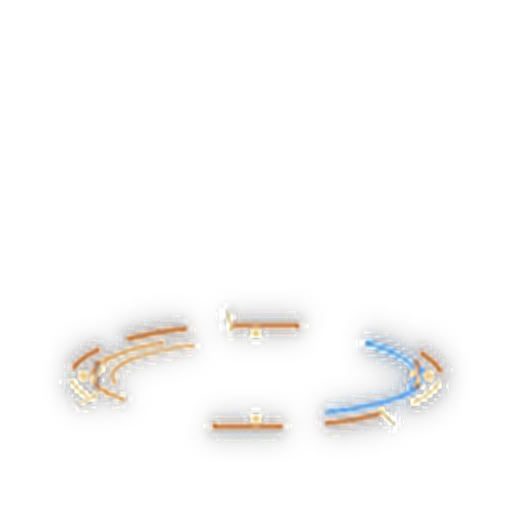
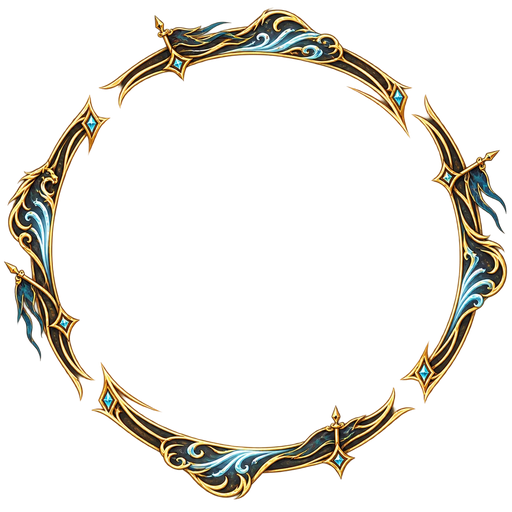
feat: new commander aura art for all eight commanders
Crisp top-down ornamental rings replace the blurred squashed ellipses,
each themed to its hero. Ghost smudges and stray specks are removed so
they cannot skew the alpha bounds the ring is fitted by.

The aura PNGs have been 512x512 since 684ee94, but the frame maths still
assumed a 128 canvas and the generated bounds were left in that space.
Name the canvas size, regenerate the bounds in pixels and update the
manifest and integration-state hashes.

Changed region(s): [[0.0, 0.0, 1.0, 1.0], [0.4375, 0.5938, 0.5938, 0.6875]]

diff --git a/packages/web/src/features/vfx/deploymentComposition.test.tsx b/packages/web/src/features/vfx/deploymentComposition.test.tsx
@@ -3,7 +3,7 @@ import test from "node:test";
 import { act, create, type ReactTestRenderer } from "react-test-renderer";
 import { renderToStaticMarkup } from "react-dom/server";
 import { UnitDeploymentContent } from "./UnitDeploymentContent";
-import { CommanderAura, commanderAuraCells, commanderAuraFrame } from "./CommanderAura";
+import { COMMANDER_AURA_CANVAS, CommanderAura, commanderAuraCells, commanderAuraFrame } from "./CommanderAura";
 import { commanderAuraBounds } from "./expansionPresence.generated";
 import { imagePreloader } from "./imagePreload";
 import type { QueuedBoardVfxRequest } from "./vfxTypes";
@@ -25,10 +25,10 @@ test("commander field includes diagonals, clips at board edges and mirrors exact
       assert.match(html, /commander-aura-orbit/);
       assert.match(html, /preserveAspectRatio="none"/);
       const hero = effectId.split(".")[1], bounds = commanderAuraBounds[hero], frame = commanderAuraFrame(hero);
-      assert(Math.abs(frame.x + bounds.left / 128 * frame.width - 3) < .001, `${hero}: left contour`);
-      assert(Math.abs(frame.y + bounds.top / 128 * frame.height - 3) < .001, `${hero}: top contour`);
-      assert(Math.abs(frame.x + (bounds.left + bounds.width) / 128 * frame.width - 297) < .001, `${hero}: right contour`);
-      assert(Math.abs(frame.y + (bounds.top + bounds.height) / 128 * frame.height - 297) < .001, `${hero}: bottom contour`);
+      assert(Math.abs(frame.x + bounds.left / COMMANDER_AURA_CANVAS * frame.width - 3) < .001, `${hero}: left contour`);
+      assert(Math.abs(frame.y + bounds.top / COMMANDER_AURA_CANVAS * frame.height - 3) < .001, `${hero}: top contour`);
+      assert(Math.abs(frame.x + (bounds.left + bounds.width) / COMMANDER_AURA_CANVAS * frame.width - 297) < .001, `${hero}: right contour`);
+      assert(Math.abs(frame.y + (bounds.top + bounds.height) / COMMANDER_AURA_CANVAS * frame.height - 297) < .001, `${hero}: bottom contour`);
     }
   }
 });

diff --git a/packages/web/src/features/vfx/expansionPresence.generated.ts b/packages/web/src/features/vfx/expansionPresence.generated.ts
@@ -178,52 +178,52 @@ export const selectionRingBounds: Readonly<Record<string, { left: number; top: n
 };
 export const commanderAuraBounds: Readonly<Record<string, { left: number; top: number; width: number; height: number }>> = {
   "donKihote": {
-    "left": 16,
-    "top": 74,
-    "width": 95,
-    "height": 34
+    "left": 8,
+    "top": 3,
+    "width": 499,
+    "height": 504
   },
   "elCidCompeador": {
-    "left": 15,
-    "top": 78,
-    "width": 98,
-    "height": 32
+    "left": 4,
+    "top": 6,
+    "width": 504,
+    "height": 496
   },
   "genghisKhan": {
-    "left": 15,
-    "top": 77,
-    "width": 98,
-    "height": 33
+    "left": 4,
+    "top": 7,
+    "width": 504,
+    "height": 493
   },
   "griffith": {
-    "left": 14,
-    "top": 52,
-    "width": 101,
-    "height": 62
+    "left": 7,
+    "top": 12,
+    "width": 498,
+    "height": 488
   },
   "grozny": {
-    "left": 16,
-    "top": 78,
-    "width": 97,
-    "height": 30
+    "left": 6,
+    "top": 10,
+    "width": 500,
+    "height": 486
   },
   "hassan": {
-    "left": 20,
-    "top": 59,
-    "width": 88,
-    "height": 45
+    "left": 7,
+    "top": 11,
+    "width": 499,
+    "height": 480
   },
   "jebe": {
-    "left": 21,
-    "top": 55,
-    "width": 87,
-    "height": 44
+    "left": 3,
+    "top": 5,
+    "width": 506,
+    "height": 499
   },
   "vladTepes": {
-    "left": 17,
-    "top": 74,
-    "width": 97,
-    "height": 36
+    "left": 2,
+    "top": 2,
+    "width": 509,
+    "height": 508
   }
 };
 export const deploymentRevealFractions: Readonly<Record<string, number>> = {

diff --git a/packages/web/src/features/vfx/CommanderAura.tsx b/packages/web/src/features/vfx/CommanderAura.tsx
@@ -23,12 +23,15 @@ export function commanderAuraCells(position: Coord, boardSize: number): Coord[] 
   return cells;
 }
 
-/** Normalize the authored ground ellipse and transparent padding to the board plane. */
+/** Pixel size of commander_aura.png; commanderAuraBounds are measured in it. */
+export const COMMANDER_AURA_CANVAS = 512;
+
+/** Normalize the authored ring and its transparent padding to the board plane. */
 export function commanderAuraFrame(heroId: string) {
-  const bounds = commanderAuraBounds[heroId] ?? { left: 0, top: 0, width: 128, height: 128 };
+  const bounds = commanderAuraBounds[heroId] ?? { left: 0, top: 0, width: COMMANDER_AURA_CANVAS, height: COMMANDER_AURA_CANVAS };
   const extent = 294, inset = 3;
   return { x: inset - bounds.left * extent / bounds.width, y: inset - bounds.top * extent / bounds.height,
-    width: 128 * extent / bounds.width, height: 128 * extent / bounds.height };
+    width: COMMANDER_AURA_CANVAS * extent / bounds.width, height: COMMANDER_AURA_CANVAS * extent / bounds.height };
 }
 
 /** The original artwork is the living radius-one ring; cell wash stays secondary. */
